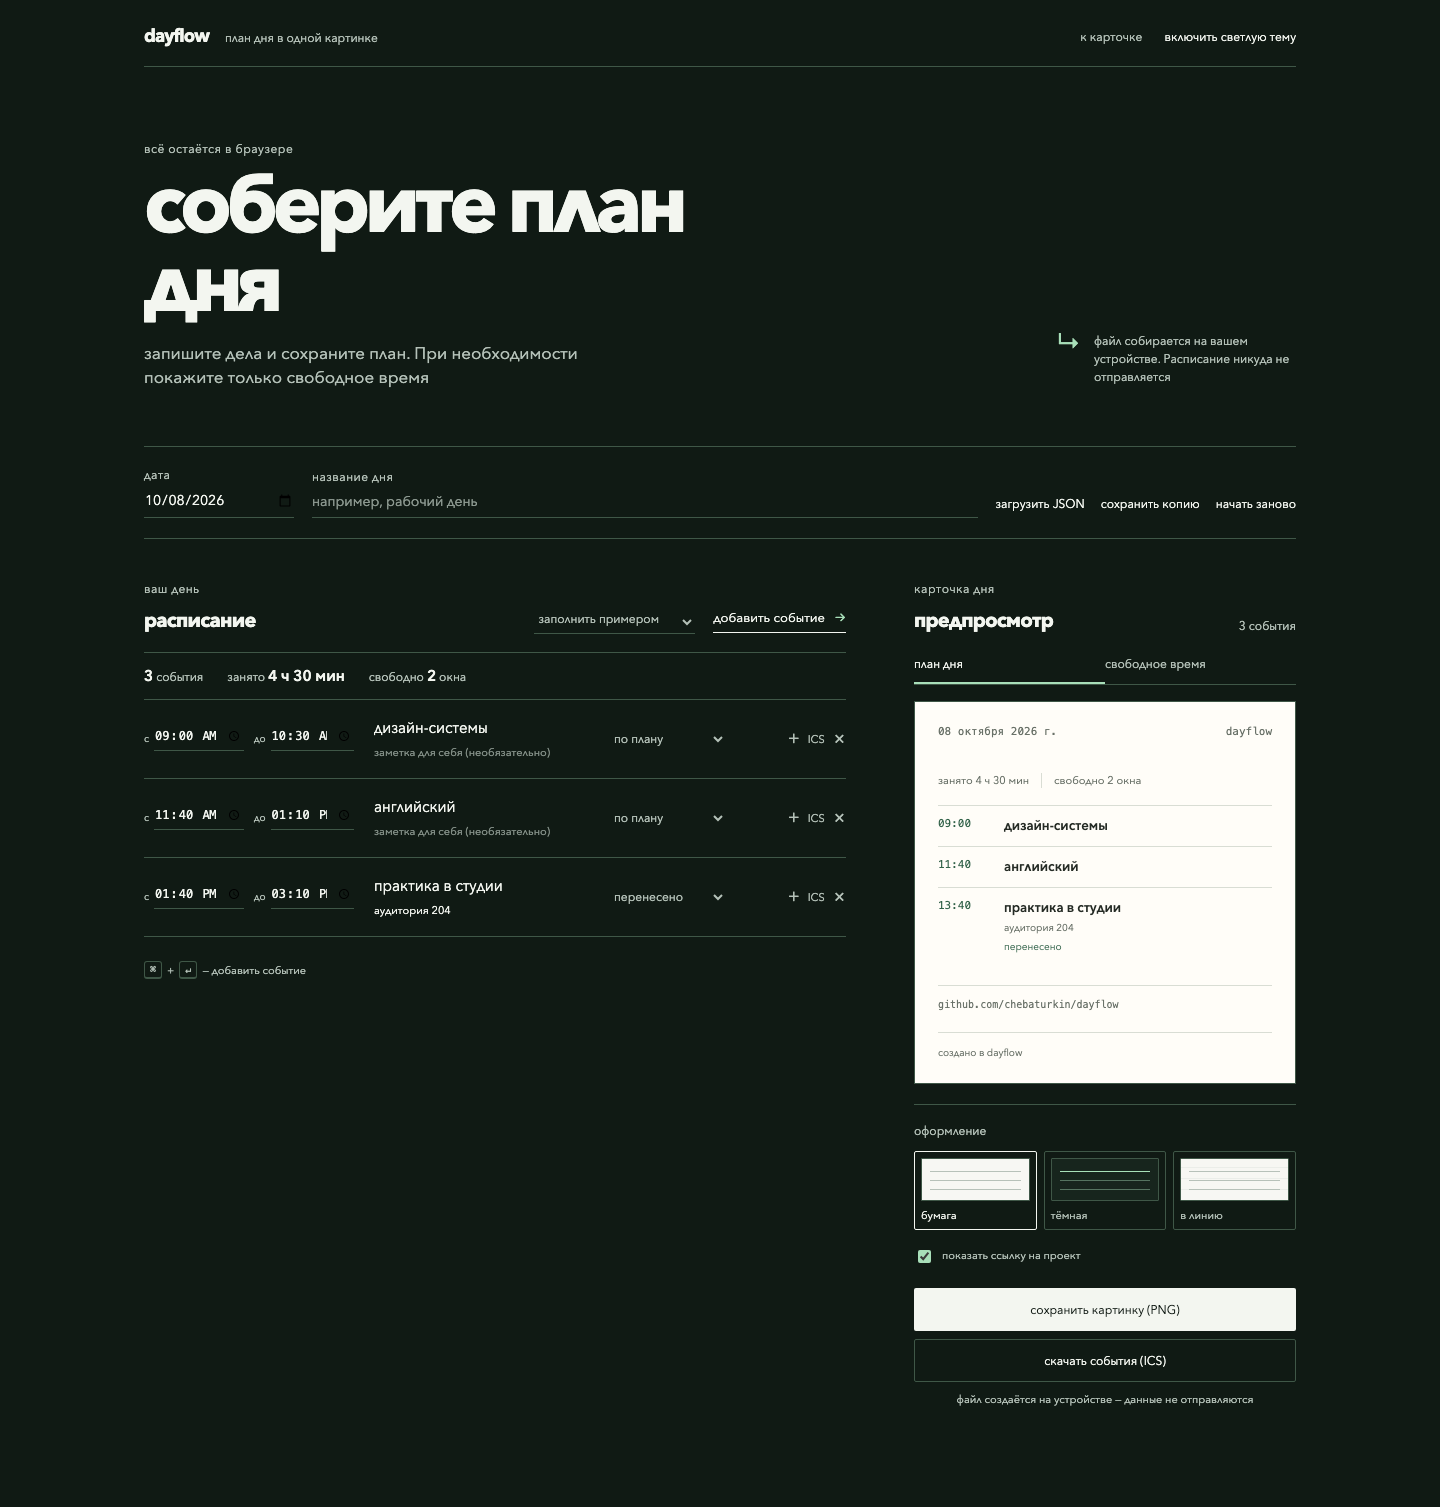
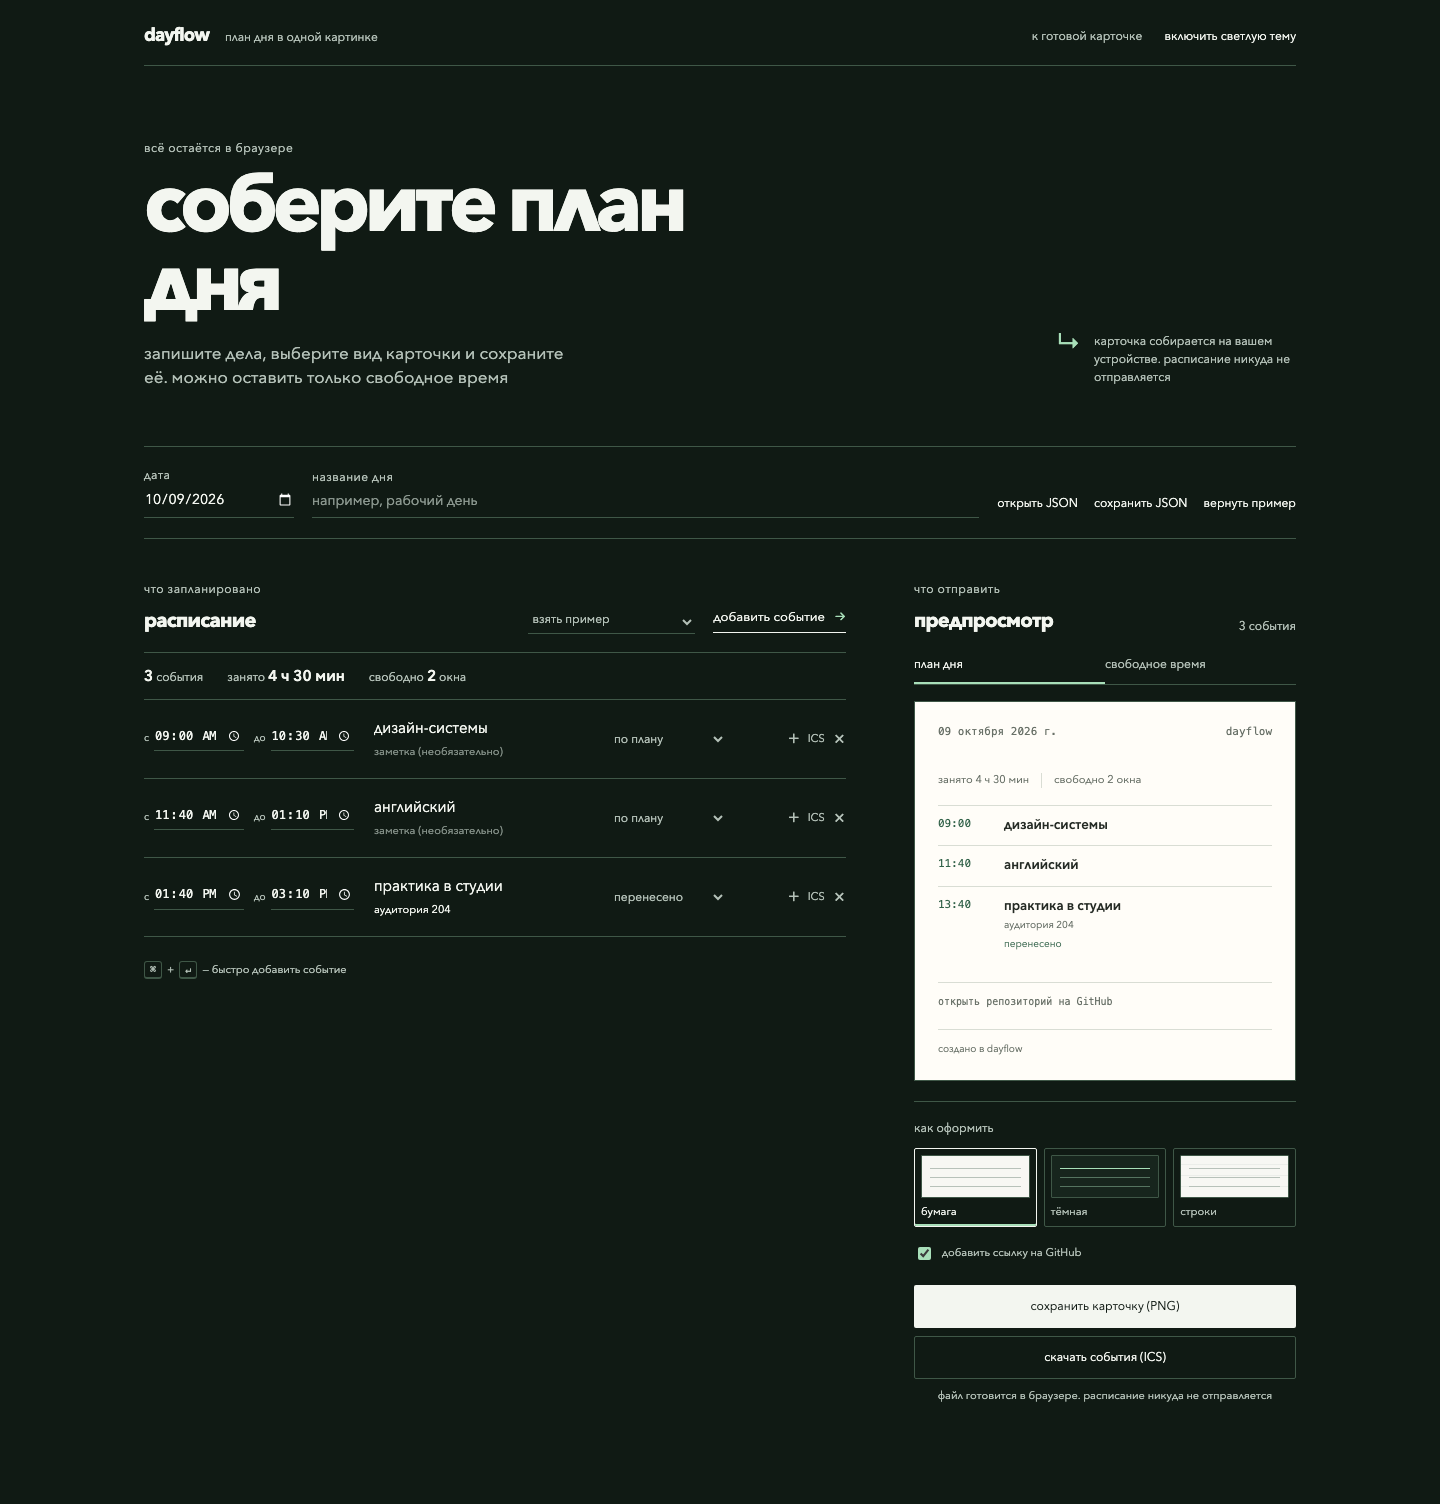
feat: polish dayflow copy and publish pages site

diff --git a/src/styles/global.css b/src/styles/global.css
@@ -8,6 +8,7 @@
   --accent: #16764e;
   --accent-soft: #e4efe7;
   --warning: #885d2f;
+  color-scheme: light;
   font-family: "Avenir Next", "Segoe UI", ui-sans-serif, system-ui, sans-serif;
 }
 
@@ -21,14 +22,15 @@ html.dark {
   --accent: #a8dfb9;
   --accent-soft: #243f2e;
   --warning: #e1b77e;
+  color-scheme: dark;
 }
 
 * { box-sizing: border-box; }
 html { scroll-behavior: smooth; }
-body { margin: 0; background: var(--bg); color: var(--ink); transition: background .18s ease, color .18s ease; }
+body { margin: 0; background: var(--bg); color: var(--ink); line-height: 1.35; transition: background .18s ease, color .18s ease; }
 button, input, select { font: inherit; }
 button:focus-visible, a:focus-visible, input:focus-visible, select:focus-visible { outline: 2px solid var(--accent); outline-offset: 4px; }
-button { color: inherit; }
+button { color: inherit; line-height: 1.35; }
 .shell { max-width: 1220px; margin: auto; padding: 24px 34px 80px; }
 .topbar { display: flex; align-items: center; justify-content: space-between; border-bottom: 1px solid var(--line); padding-bottom: 17px; }
 .brand { display: flex; align-items: baseline; gap: 16px; }
@@ -49,7 +51,7 @@ button { color: inherit; }
 .date-field span, .label-field span { color: var(--muted); font-size: 12px; letter-spacing: .04em; }
 .date-field input, .label-field input { min-width: 0; border: 0; border-bottom: 1px solid var(--line); border-radius: 0; background: transparent; color: var(--ink); padding: 0 0 6px; font-size: 14px; }
 .label-field input::placeholder { color: var(--muted); opacity: .75; }
-.document-actions { display: flex; align-items: center; gap: 16px; padding-bottom: 6px; }
+.document-actions { display: flex; align-items: center; flex-wrap: wrap; gap: 10px 16px; padding-bottom: 6px; }
 .layout { display: grid; grid-template-columns: minmax(0, 1fr) 382px; gap: 68px; padding-top: 42px; }
 .section-head, .export-head { display: flex; justify-content: space-between; align-items: end; gap: 16px; margin-bottom: 18px; }
 .section-head h2, .export-head h2 { margin: 0; font-size: 20px; font-weight: 650; letter-spacing: -.04em; }
@@ -112,7 +114,7 @@ kbd { border: 1px solid var(--line); border-bottom-width: 2px; border-radius: 3p
 .option-label { color: var(--muted); font-size: 12px; margin: 0 0 12px; }
 .styles { display: grid; grid-template-columns: repeat(3, 1fr); gap: 7px; margin-bottom: 18px; }
 .style { display: flex; flex-direction: column; gap: 7px; border: 1px solid var(--line); border-radius: 2px; background: transparent; color: var(--muted); padding: 6px; cursor: pointer; font-size: 11px; text-align: left; }
-.style.active { border-color: var(--ink); color: var(--ink); }
+.style.active { border-color: var(--ink); color: var(--ink); box-shadow: inset 0 -2px 0 var(--accent); }
 .mini-card { display: block; position: relative; width: 100%; height: 43px; overflow: hidden; border: 1px solid var(--line); border-radius: 1px; background: #f7f7f3; }
 .mini-card::after { position: absolute; top: 12px; right: 8px; left: 8px; height: 1px; background: #b7c1b9; box-shadow: 0 9px #b7c1b9, 0 18px #b7c1b9; content: ''; }
 .mini-dark { background: #17251d; }
@@ -121,7 +123,7 @@ kbd { border: 1px solid var(--line); border-bottom-width: 2px; border-radius: 3p
 .check { display: flex; align-items: flex-start; gap: 8px; color: var(--muted); cursor: pointer; font-size: 11px; line-height: 1.4; }
 .check input { accent-color: var(--accent); margin-top: 2px; }
 .export-actions { display: grid; gap: 8px; margin-top: 22px; }
-.primary, .secondary { width: 100%; height: 43px; border-radius: 2px; cursor: pointer; font-size: 12px; }
+.primary, .secondary { width: 100%; min-height: 43px; height: auto; border-radius: 2px; cursor: pointer; font-size: 12px; padding: 10px 14px; }
 .primary { border: 0; background: var(--ink); color: var(--bg); }
 .primary:hover { background: var(--accent); color: var(--bg); }
 .secondary { border: 1px solid var(--line); background: transparent; color: var(--ink); }
@@ -143,8 +145,8 @@ kbd { border: 1px solid var(--line); border-bottom-width: 2px; border-radius: 3p
   .intro { display: block; padding: 55px 0 42px; }
   .intro h1 { font-size: 49px; }
   .intro-note { margin-top: 30px; }
-  .document-bar { grid-template-columns: 1fr 1fr; align-items: end; }
-  .document-actions { grid-column: 1 / -1; justify-content: space-between; padding-top: 8px; }
+  .document-bar { grid-template-columns: 1fr; align-items: end; gap: 14px; }
+  .document-actions { grid-column: auto; justify-content: flex-start; padding-top: 8px; }
   .section-head { align-items: start; }
   .head-actions { align-items: end; flex-direction: column-reverse; gap: 10px; }
   .lesson { grid-template-columns: minmax(0, 1fr) auto; gap: 10px 14px; }
@@ -152,6 +154,17 @@ kbd { border: 1px solid var(--line); border-bottom-width: 2px; border-radius: 3p
   .lesson-main { grid-column: 1 / -1; grid-row: 2; }
   .lesson > .status { grid-column: 1; grid-row: 3; max-width: 150px; }
   .row-actions { grid-column: 2; grid-row: 3; }
+}
+@media (max-width: 420px) {
+  .shell { padding-inline: 16px; }
+  .topbar { align-items: flex-start; }
+  .topbar nav { align-items: flex-end; flex-direction: column; gap: 8px; text-align: right; }
+  .intro h1 { font-size: 43px; }
+  .section-head, .export-head { align-items: flex-start; }
+  .head-actions { width: 100%; }
+  .preset-label, .preset-label select, .text-action { width: 100%; }
+  .text-action { text-align: left; }
+  .mode { font-size: 11px; }
 }
 @media (prefers-reduced-motion: reduce) {
   *, *::before, *::after { animation-duration: .01ms !important; scroll-behavior: auto !important; transition-duration: .01ms !important; }

diff --git a/tests/layout-check.py b/tests/layout-check.py
@@ -6,7 +6,7 @@ from playwright.sync_api import sync_playwright
 with sync_playwright() as p:
     browser = p.chromium.launch(headless=True)
     page = browser.new_page(viewport={"width": 1440, "height": 1000})
-    page.goto(os.environ.get("DAYFLOW_URL", "http://127.0.0.1:4321"), wait_until="networkidle")
+    page.goto(os.environ.get("DAYFLOW_URL", "http://127.0.0.1:4321/dayflow"), wait_until="networkidle")
     failures = []
     for width in [1440, 1024, 900, 840, 768, 640, 390, 330, 320]:
         page.set_viewport_size({"width": width, "height": 1000})

diff --git a/tests/browser-check.py b/tests/browser-check.py
@@ -14,7 +14,7 @@ with sync_playwright() as p:
     browser = p.chromium.launch(headless=True)
     context = browser.new_context(viewport={"width": 1440, "height": 1000}, device_scale_factor=1)
     page = context.new_page()
-    page.goto("http://127.0.0.1:4321", wait_until="networkidle")
+    page.goto("http://127.0.0.1:4321/dayflow", wait_until="networkidle")
     page.evaluate("localStorage.clear()")
     page.reload(wait_until="networkidle")
 

diff --git a/README.md b/README.md
@@ -1,49 +1,53 @@
 # dayflow
 
-dayflow собирает план дня в одну понятную картинку. Можно показать расписание целиком или только время, когда вы свободны. Данные остаются в браузере — без регистрации и доступа к календарю.
+соберите план дня и сохраните его одной понятной картинкой. можно показать расписание целиком или оставить только свободное время — без регистрации, календарного доступа и сервера.
 
-![светлая тема](public/preview-light.png)
+[открыть dayflow](https://chebaturkin.github.io/dayflow/)
 
-![тёмная тема](public/preview-dark.png)
+## зачем
 
-## запуск
+календарь удобен для себя, но им неловко делиться: в нём видны названия встреч и личные детали, а для просмотра иногда нужен доступ к аккаунту. dayflow оставляет расписание в браузере и превращает его в карточку, которую можно отправить отдельно.
+
+## что умеет
+
+- два вида карточки: план с названиями событий и свободное время без них;
+- расчёт свободных окон и предупреждение, если события пересекаются;
+- дата, название дня, заметки и статусы «по плану», «перенесено» и «отменено»;
+- три спокойных оформления, светлая и тёмная тема;
+- PNG для карточки, ICS для календаря и JSON для резервной копии;
+- локальное хранение: данные не уходят из браузера, пока вы сами не скачаете файл.
+
+в демо стоят вымышленные события. их можно заменить своими или начать с пустого листа.
+
+## как запустить локально
+
+нужен Node.js 20 или новее.
 
 ```bash
 npm install
 npm run dev
 ```
 
-## проверка и сборка
+откройте адрес из терминала. изменения применяются сразу.
+
+## как проверить сборку
 
 ```bash
 npm test
 npm run build
 ```
 
-`npm test` запускает тесты расписания и экспорта в ICS. `npm run build` проверяет проект и создаёт готовую сборку в `dist/`.
+`npm test` проверяет расчёт расписания, импорт JSON и экспорт в ICS. `npm run build` запускает `astro check` и собирает статическую версию в `dist/`.
 
-чтобы посмотреть собранную версию локально:
+для просмотра готовой сборки:
 
 ```bash
 npm run preview
 ```
 
-## что внутри
+## GitHub Pages
 
-- два режима карточки: план с названиями и свободное время без названий событий;
-- автоматический расчёт свободных окон и предупреждение о пересечениях;
-- редактируемые события, заметки, статусы «по плану / перенесено / отменено»;
-- дата и название дня, три спокойных оформления, светлая и тёмная тема;
-- PNG с датой и выбранным режимом;
-- ICS для отдельного события или всего дня;
-- JSON для резервной копии и переноса между браузерами;
-- данные хранятся в браузере; сервер и аккаунт не нужны.
-
-В демо используются вымышленные события. Данные остаются в браузере, пока вы сами не экспортируете файл.
-
-## зачем
-
-Календарь удобен для себя, но им сложно делиться: он раскрывает названия событий и просит открыть доступ к аккаунту. dayflow превращает расписание в одну понятную картинку — полный план или только свободное время.
+каждый push в `main` собирает сайт и публикует его через GitHub Actions. готовая страница находится по адресу [chebaturkin.github.io/dayflow](https://chebaturkin.github.io/dayflow/).
 
 ## лицензия
 
